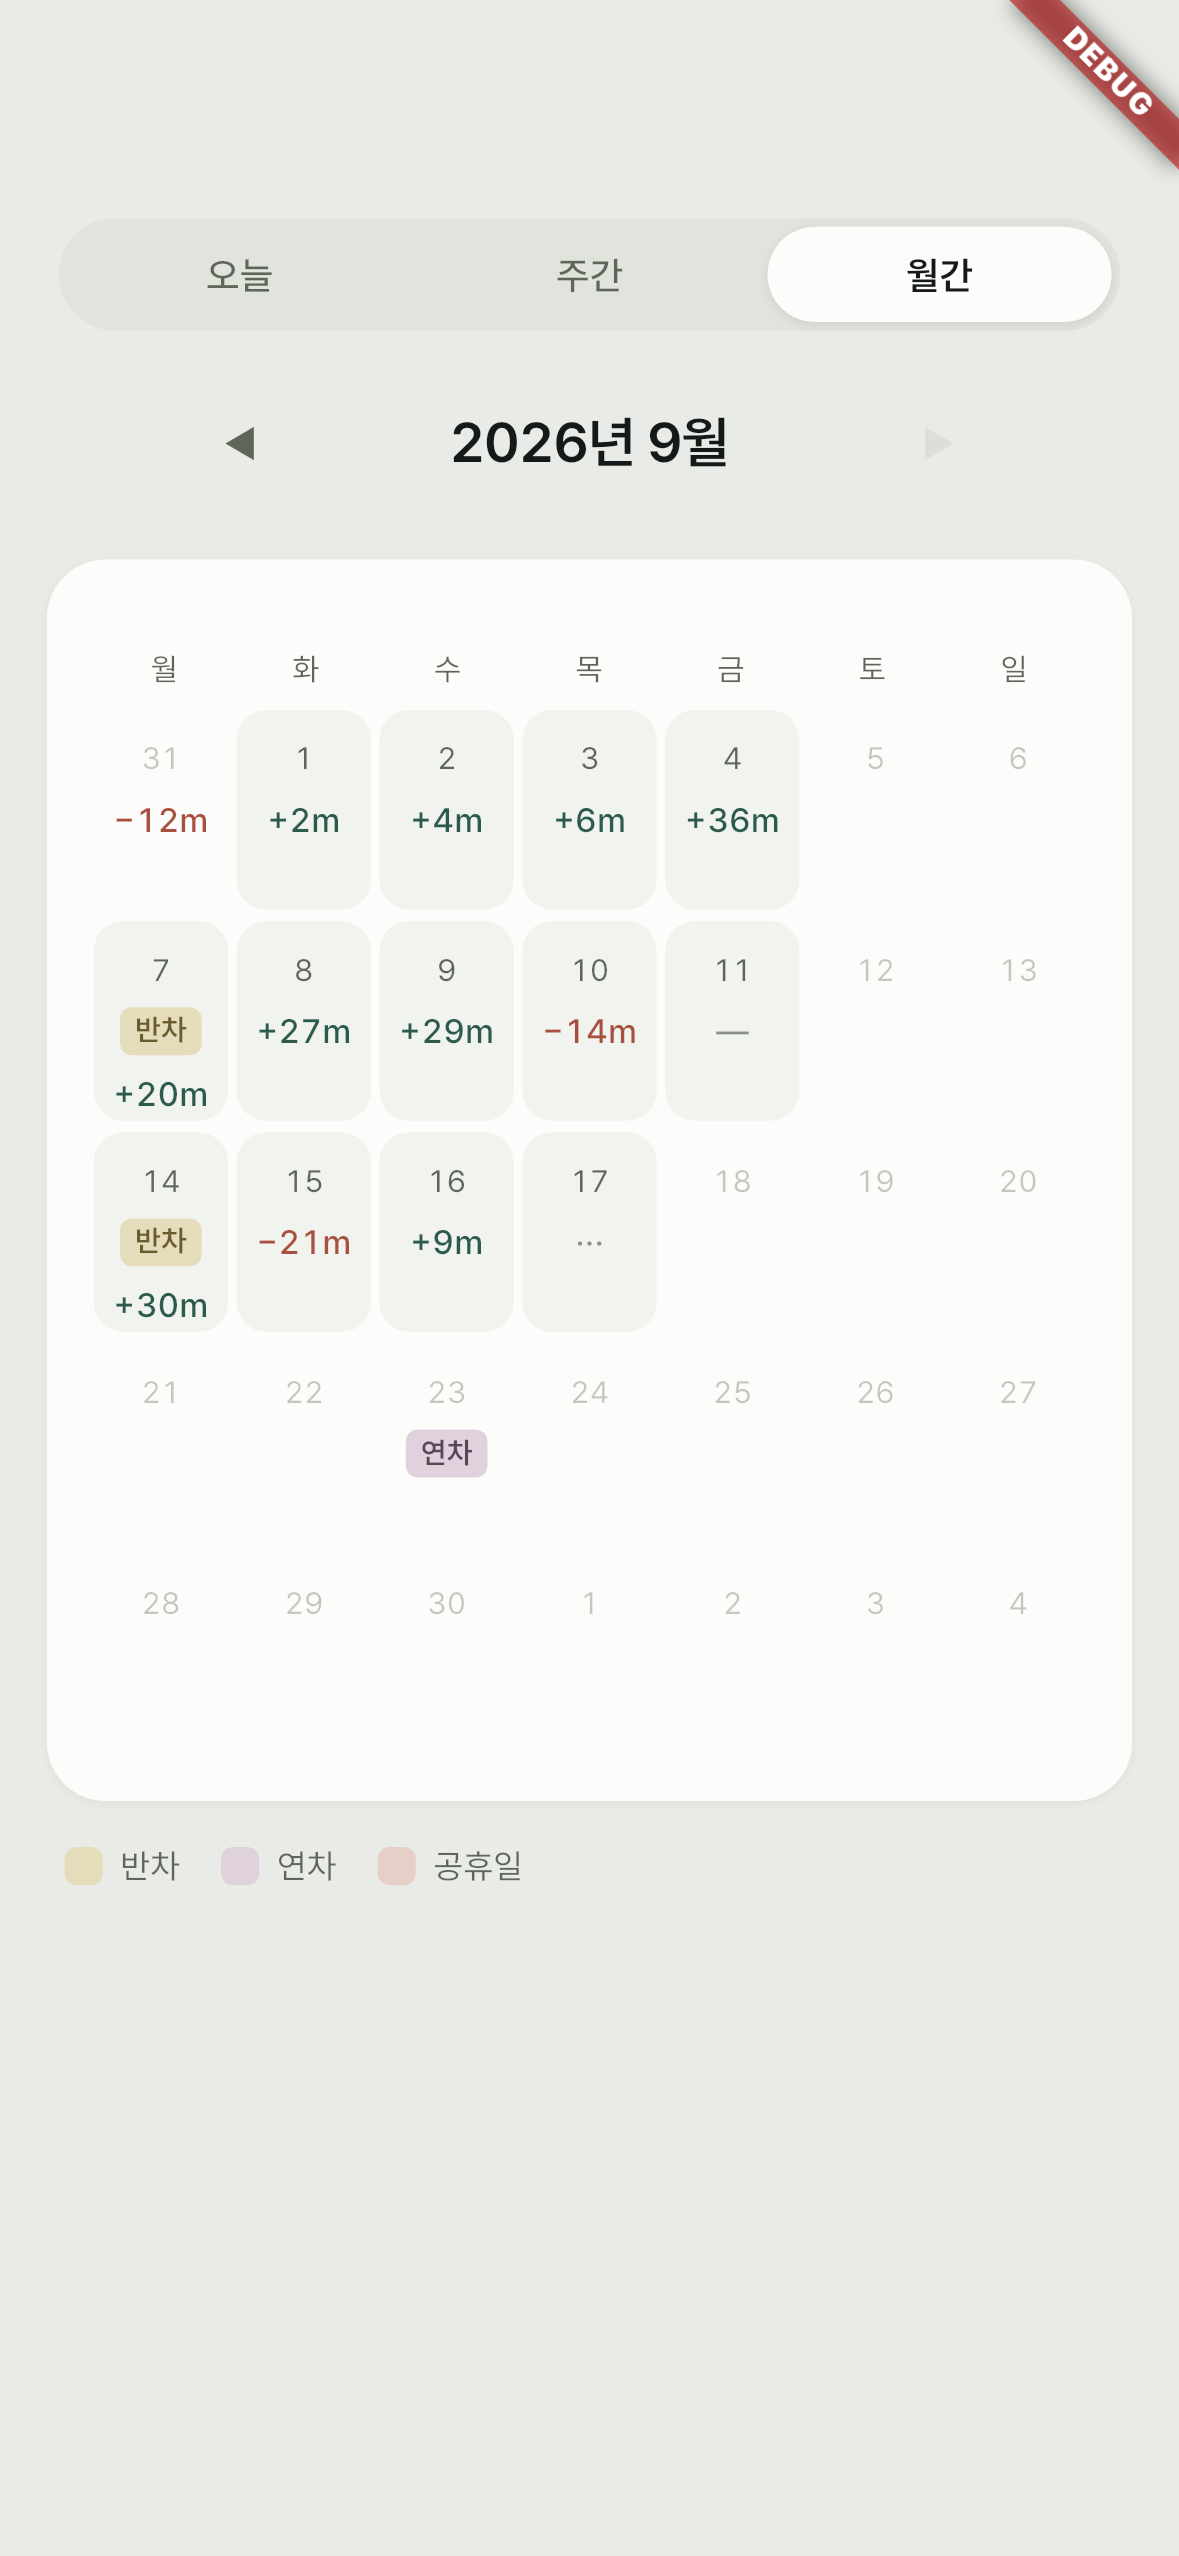
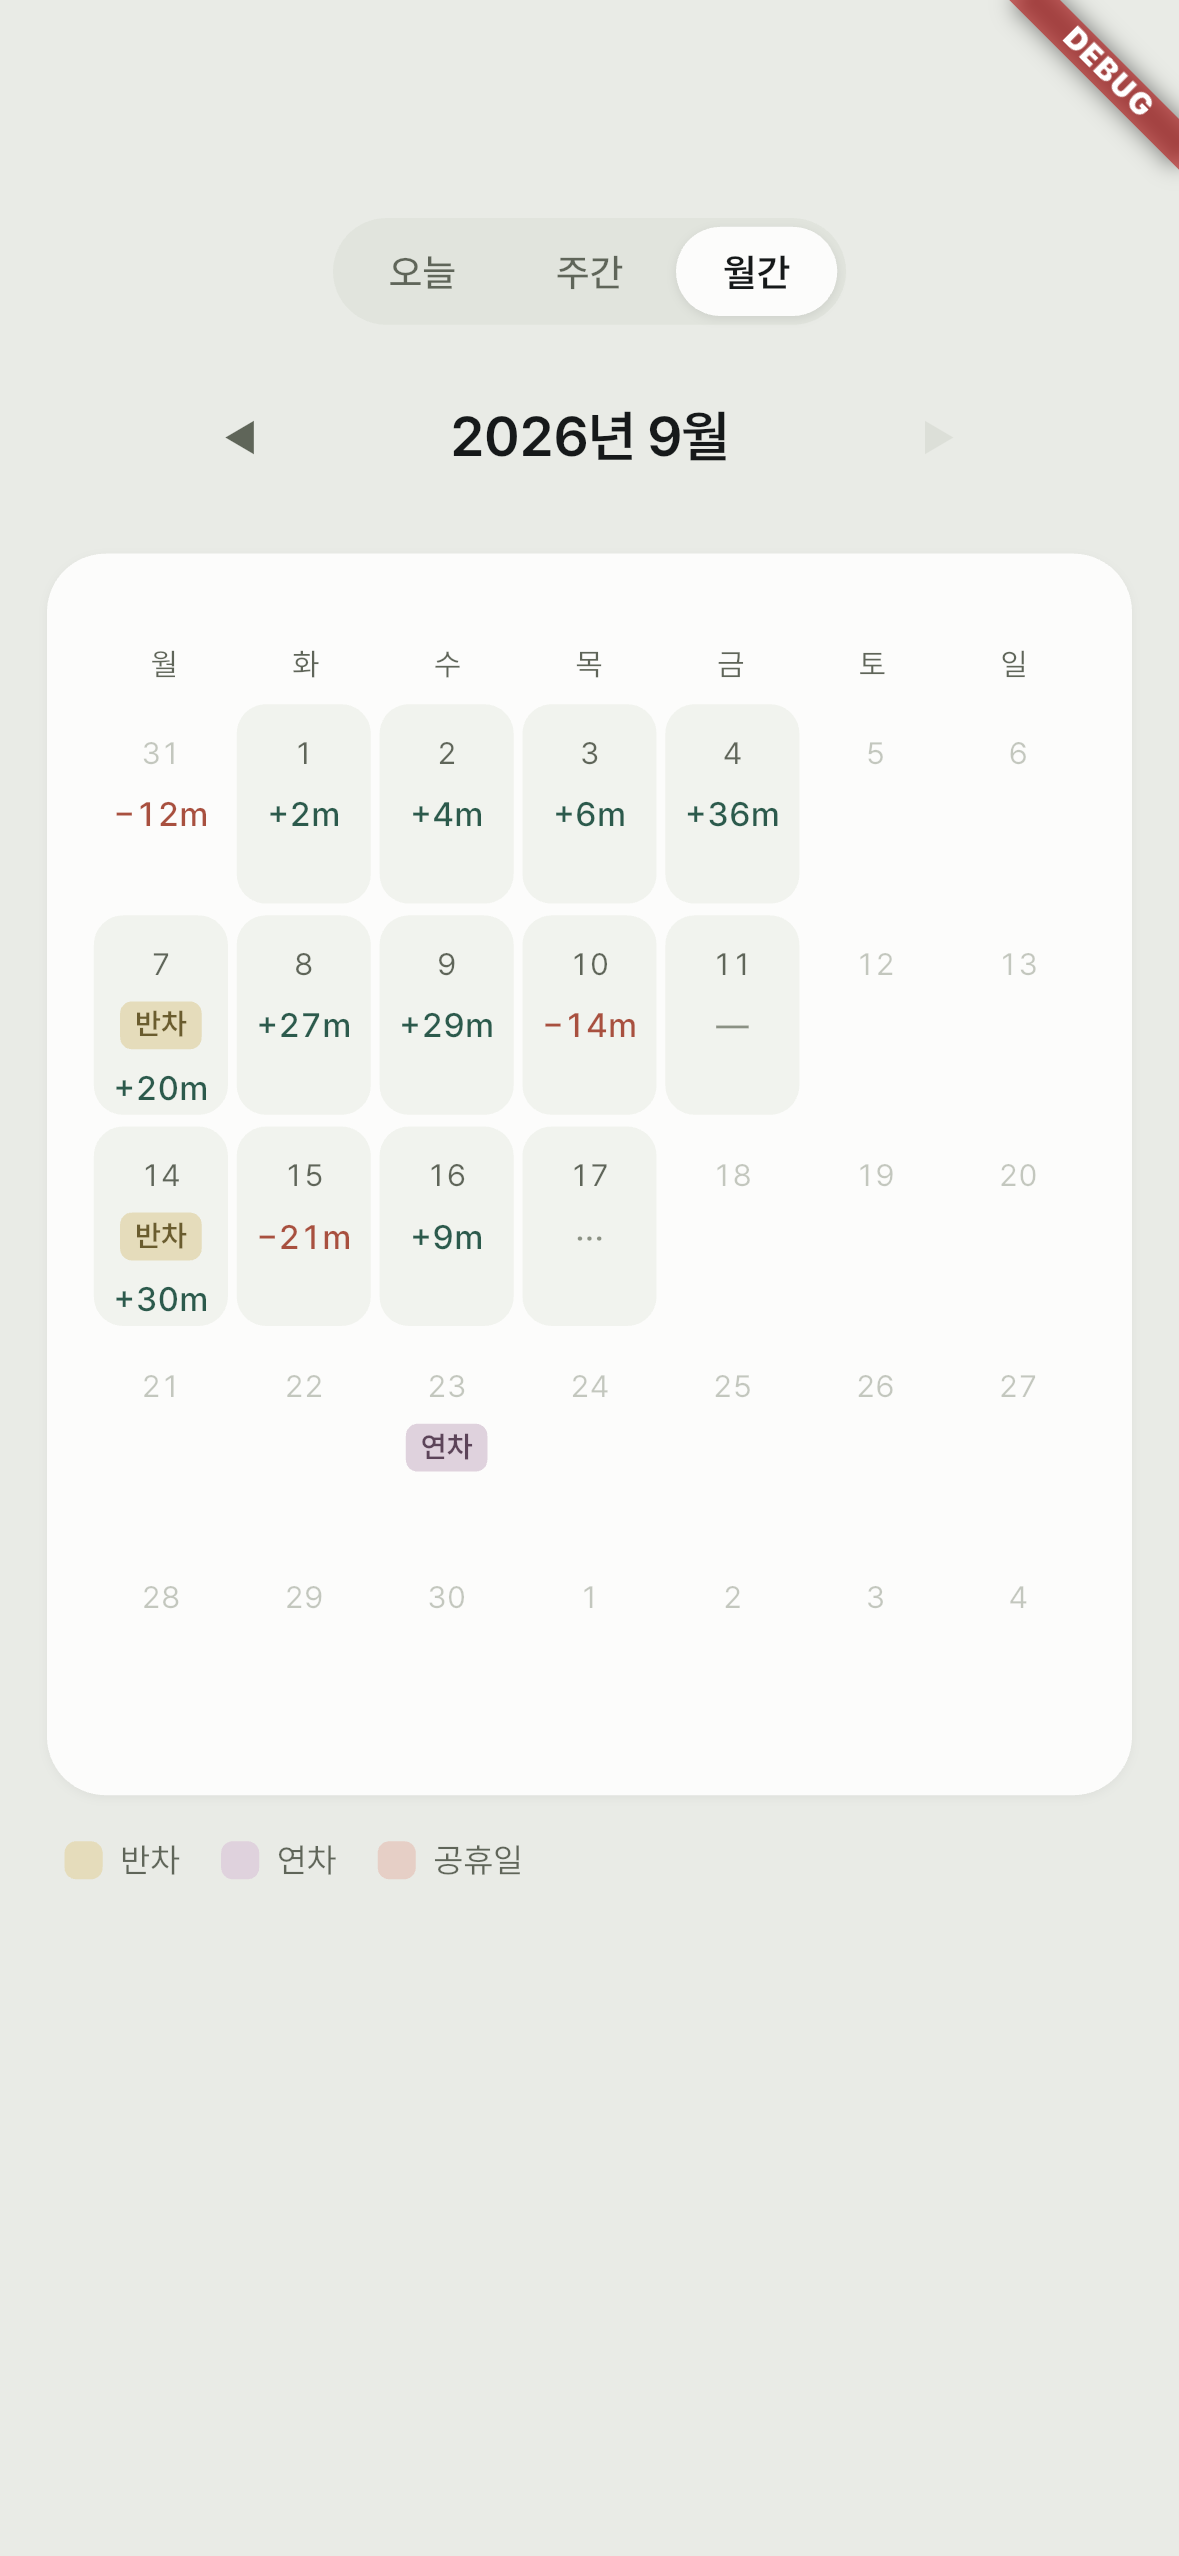
탭 셸을 PageView로: 스와이프 전환, 알약 탭은 가운데 작은 세그먼트

diff --git a/lib/presentation/shell/tab_shell.dart b/lib/presentation/shell/tab_shell.dart
@@ -6,14 +6,42 @@ import '../../ui/app_sizes.dart';
 import '../today/today_texts.dart';
 import '../today/widgets/pill_tabs.dart';
 
-/// 알약 탭 + 브랜치. Scaffold·SafeArea는 여기 한 번만. 탭 전환 애니메이션 없음 (IndexedStack).
-class TabShell extends StatelessWidget {
-  const TabShell({super.key, required this.navigationShell});
+/// 알약 탭 + 브랜치 PageView. Scaffold·SafeArea는 여기 한 번만.
+/// 스와이프하면 브랜치가 바뀌고, 탭을 누르면 페이지가 밀려간다. 둘 다 [navigationShell]의 인덱스로 동기화한다.
+class TabShell extends StatefulWidget {
+  const TabShell({super.key, required this.navigationShell, required this.children});
 
   final StatefulNavigationShell navigationShell;
+  final List<Widget> children;
+
+  @override
+  State<TabShell> createState() => _TabShellState();
+}
+
+class _TabShellState extends State<TabShell> {
+  late final _controller = PageController(initialPage: widget.navigationShell.currentIndex);
+  var _animating = false;
+
+  @override
+  void didUpdateWidget(TabShell oldWidget) {
+    super.didUpdateWidget(oldWidget);
+    final target = widget.navigationShell.currentIndex;
+    if (!_controller.hasClients || _controller.page?.round() == target || _animating) return;
+    _animating = true;
+    _controller
+        .animateToPage(target, duration: AppDurations.tabSwipe, curve: Curves.easeOut)
+        .whenComplete(() => _animating = false);
+  }
+
+  @override
+  void dispose() {
+    _controller.dispose();
+    super.dispose();
+  }
 
   @override
   Widget build(BuildContext context) {
+    final shell = widget.navigationShell;
     return Scaffold(
       backgroundColor: AppColors.screenBackground,
       body: SafeArea(
@@ -21,14 +49,25 @@ class TabShell extends StatelessWidget {
         child: Column(
           children: [
             Padding(
-              padding: EdgeInsets.fromLTRB(AppSizes.screenHPadding, AppSizes.topInset, AppSizes.screenHPadding, 0),
-              child: PillTabs(
-                labels: TodayTexts.tabs,
-                selectedIndex: navigationShell.currentIndex,
-                onSelected: (i) => navigationShell.goBranch(i, initialLocation: i == navigationShell.currentIndex),
+              padding: EdgeInsets.only(top: AppSizes.topInset),
+              child: Center(
+                child: PillTabs(
+                  labels: TodayTexts.tabs,
+                  selectedIndex: shell.currentIndex,
+                  onSelected: (i) => shell.goBranch(i, initialLocation: i == shell.currentIndex),
+                ),
               ),
             ),
-            Expanded(child: navigationShell),
+            Expanded(
+              child: PageView(
+                controller: _controller,
+                // 탭 탭으로 밀려가는 중에 지나치는 페이지는 무시 — 도착한 뒤 인덱스가 이미 맞다.
+                onPageChanged: (i) {
+                  if (!_animating && i != shell.currentIndex) shell.goBranch(i);
+                },
+                children: widget.children,
+              ),
+            ),
           ],
         ),
       ),

diff --git a/lib/presentation/today/widgets/pill_tabs.dart b/lib/presentation/today/widgets/pill_tabs.dart
@@ -4,6 +4,7 @@ import '../../../ui/app_colors.dart';
 import '../../../ui/app_sizes.dart';
 import '../../../ui/app_text_styles.dart';
 
+/// 가운데 정렬된 세그먼트. 폭은 내용만큼 — 화면을 가로지르지 않는다.
 class PillTabs extends StatelessWidget {
   const PillTabs({super.key, required this.labels, required this.selectedIndex, this.onSelected});
 
@@ -20,10 +21,11 @@ class PillTabs extends StatelessWidget {
         borderRadius: BorderRadius.circular(AppSizes.pill),
       ),
       child: Row(
+        mainAxisSize: MainAxisSize.min,
         children: [
           for (var i = 0; i < labels.length; i++) ...[
             if (i > 0) SizedBox(width: AppSizes.tabGap),
-            Expanded(child: _Tab(label: labels[i], selected: i == selectedIndex, onTap: () => onSelected?.call(i))),
+            _Tab(label: labels[i], selected: i == selectedIndex, onTap: () => onSelected?.call(i)),
           ],
         ],
       ),
@@ -44,7 +46,7 @@ class _Tab extends StatelessWidget {
       behavior: HitTestBehavior.opaque,
       onTap: onTap,
       child: Container(
-        padding: EdgeInsets.symmetric(vertical: AppSizes.tabItemVPadding),
+        padding: EdgeInsets.symmetric(vertical: AppSizes.tabItemVPadding, horizontal: AppSizes.tabItemHPadding),
         alignment: Alignment.center,
         decoration: selected
             ? BoxDecoration(

diff --git a/lib/core/routing/router.dart b/lib/core/routing/router.dart
@@ -14,8 +14,11 @@ GoRouter router(Ref ref) {
   return GoRouter(
     initialLocation: RoutePaths.today,
     routes: [
-      StatefulShellRoute.indexedStack(
-        builder: (context, state, navigationShell) => TabShell(navigationShell: navigationShell),
+      // IndexedStack 대신 PageView 컨테이너 — 스와이프로 탭을 넘긴다.
+      StatefulShellRoute(
+        builder: (context, state, navigationShell) => navigationShell,
+        navigatorContainerBuilder: (context, navigationShell, children) =>
+            TabShell(navigationShell: navigationShell, children: children),
         branches: [
           StatefulShellBranch(routes: [GoRoute(path: RoutePaths.today, builder: (_, _) => const TodayScreen())]),
           StatefulShellBranch(routes: [GoRoute(path: RoutePaths.week, builder: (_, _) => const WeekScreen())]),

diff --git a/lib/ui/app_sizes.dart b/lib/ui/app_sizes.dart
@@ -14,7 +14,8 @@ abstract final class AppSizes {
   // 알약 탭
   static double get tabPadding => 3.w;
   static double get tabGap => 2.w;
-  static double get tabItemVPadding => 7.w;
+  static double get tabItemVPadding => 6.w;
+  static double get tabItemHPadding => 16.w;
 
   // 카드
   static double get cardRadius => 20.w;
@@ -178,6 +179,7 @@ abstract final class AppDurations {
   static const sheetSlide = Duration(milliseconds: 260);
   static const wheelItem = Duration(milliseconds: 120);
   static const pressedOpacity = Duration(milliseconds: 100);
+  static const tabSwipe = Duration(milliseconds: 220);
 }
 
 abstract final class AppScales {

diff --git a/test_driver/app_test.dart b/test_driver/app_test.dart
@@ -24,7 +24,8 @@ void main() {
     await driver.waitFor(find.text('퇴근하기'));
     await shot('today-working');
 
-    await driver.tap(find.text('주간'));
+    // 스와이프로 주간 이동
+    await driver.scroll(find.byType('PageView'), -300, 0, const Duration(milliseconds: 300));
     await driver.waitFor(find.text('이번 주 누적'));
     await shot('week-current');
     await driver.tap(find.text('◀'));
